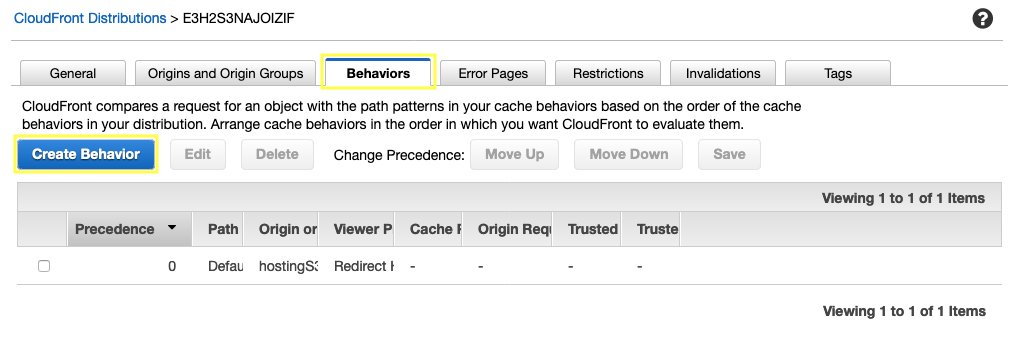
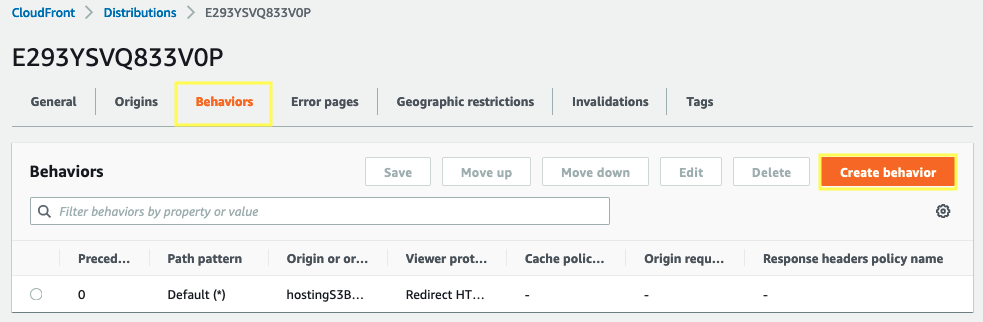
CDK v2

diff --git a/content/frontend-react-with-aws-amplify/configure-cloudfront.md b/content/frontend-react-with-aws-amplify/configure-cloudfront.md
@@ -8,15 +8,15 @@ pre: '<b style="color:#fff;">4. </b>'
 
 4.1\. Open the Amazon CloudFront console at https://console.aws.amazon.com/cloudfront/.
 
-4.2\. Choose your distribution and click on Distribution Settings.
+4.2\. Choose your CloudFront distribution.
 
 ![CloudFront Dist](../images/cloudfront-dist.png)
 
-4.3\. Go to **Origins and Origin Groups** tab and click on **Create Origin**.
+4.3\. Go to **Origins** tab and click on **Create Origin**.
 
 ![CloudFront Origin](../images/cloudfront-origin.png)
 
-4.4\. For **Origin Domain Name** select your Application Load Balancer and choose **Create**.
+4.4\. For **Origin domain** select your Application Load Balancer and choose **Create**.
 
 ![CloudFront Create Origin](../images/cloudfront-create-origin.png)
 
@@ -24,13 +24,13 @@ pre: '<b style="color:#fff;">4. </b>'
 
 ![CloudFront Behaviors](../images/cloudfront-behaviors.png)
 
-4.6\. For **Create Behavior** complete as follows and choose **Create**:
+4.6\. For **Create Behavior** complete as follows and choose **Create behavior**:
 
 * **Path Pattern**: **``/api*``**
 * **Origin or Origin Group**: **``ELB-CdkMs-ALBAE--XXXXX``**
 * **Allowed HTTP Methods**: **``GET, HEAD, OPTIONS, PUT, POST, PATCH, DELETE``**
-* **Cache Policy**: **``Managed-CachingDisabled``**
-* **Origin Request Policy**: **``Managed-AllViewer``**
+* **Cache Policy**: **``CachingDisabled``**
+* **Origin Request Policy**: **``AllViewer``**
 
 ![CloudFront Behaviors](../images/cloudfront-create-beh.png)
 

diff --git a/content/_index.en.md b/content/_index.en.md
@@ -1,12 +1,12 @@
 +++
-title = "Workshop - Deploying Containers with AWS CDK and React with AWS Amplify"
+title = "Workshop - Deploying Containers with AWS CDK v2 and React with AWS Amplify"
 chapter = true
 weight = 1
 +++
 
 Hello, this is a self-paced workshop to create a React application hosted on Amazon S3 and Amazon CloudFront. It shows a list of messages stored on an Amazon DynamoDB table. The messages are retrieved using a simple API based on Node.js within a Docker using Amazon Container Service. By the way, that container has continuous deployment enabled by using AWS CodePipeline.
 
-**You will use AWS CDK and AWS Amplify to create the services.**
+**You will use AWS CDK v2 and AWS Amplify to create the services.**
 
 * **Backend with:**
     * [**AWS Cloud Development Kit**](https://aws.amazon.com/cdk/)
@@ -15,6 +15,6 @@ Hello, this is a self-paced workshop to create a React application hosted on Ama
 
 See the diagram below for a depiction of the complete architecture.
 
-![Workshop - Deploying Containers with AWS CDK and React with AWS Amplify](images/diagram.png)
+![Workshop - Deploying Containers with AWS CDK v2 and React with AWS Amplify](images/diagram.png)
 
 **If the resources that you use for this workshop are left undeleted you will incur charges on your AWS account.**

diff --git a/README.md b/README.md
@@ -1,10 +1,10 @@
-# Workshop - Deploying Containers with AWS CDK and React with AWS Amplify
+# Workshop - Deploying Containers with AWS CDK v2 and React with AWS Amplify
 
 Hello, this is a self-paced workshop to create a React application hosted on Amazon S3 and Amazon CloudFront. It shows a list of messages stored on an Amazon DynamoDB table. The messages are retrieved using a simple API based on Node.js within a Docker using Amazon Container Service. By the way, that container has continuous deployment enabled by using AWS CodePipeline.
 
 See the diagram below for a depiction of the complete architecture.
 
-![Workshop - Deploying Containers with AWS CDK and React with AWS Amplify](content/images/diagram.png)
+![Workshop - Deploying Containers with AWS CDK v2 and React with AWS Amplify](content/images/diagram.png)
 
 ## To start
 

diff --git a/content/frontend-react-with-aws-amplify/_index.md b/content/frontend-react-with-aws-amplify/_index.md
@@ -6,7 +6,7 @@ chapter = true
 pre = '<i class="fa fa-angle-right" aria-hidden="true"></i> '
 +++
 
-{{< youtube -Vm-4BbY58Y >}}
+{{< youtube VzhZ5e1kq50 >}}
 
 [AWS Amplify](https://aws.amazon.com/amplify/) consists of a set of tools (open source framework, admin UI, console) and services (static web hosting) to accelerate the development of mobile and web applications on AWS.
 
